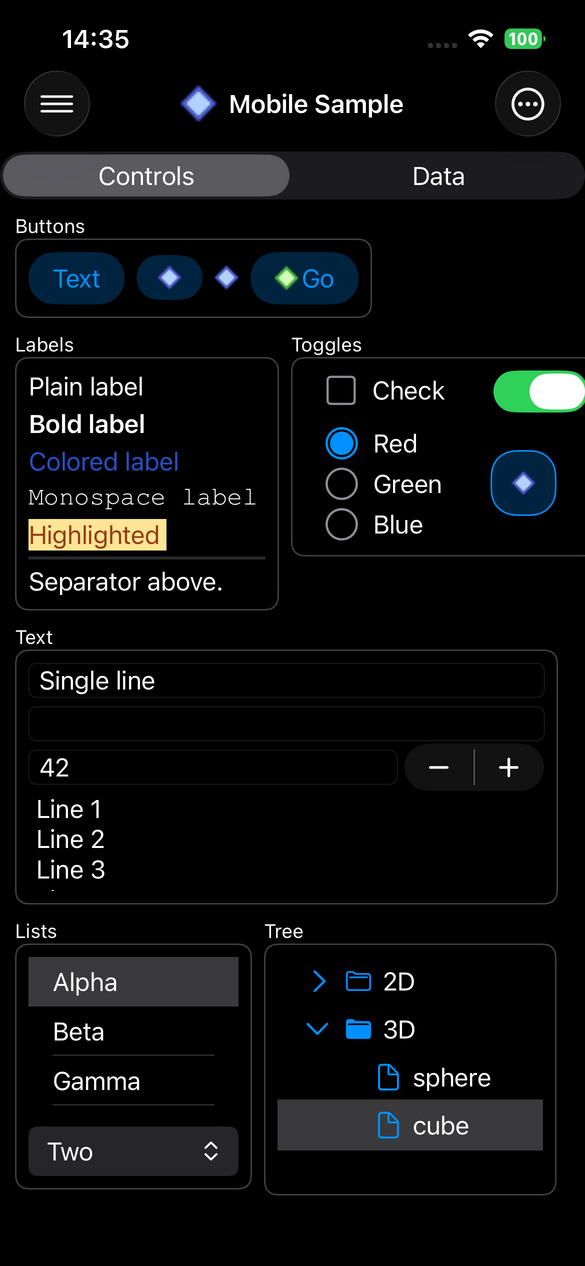
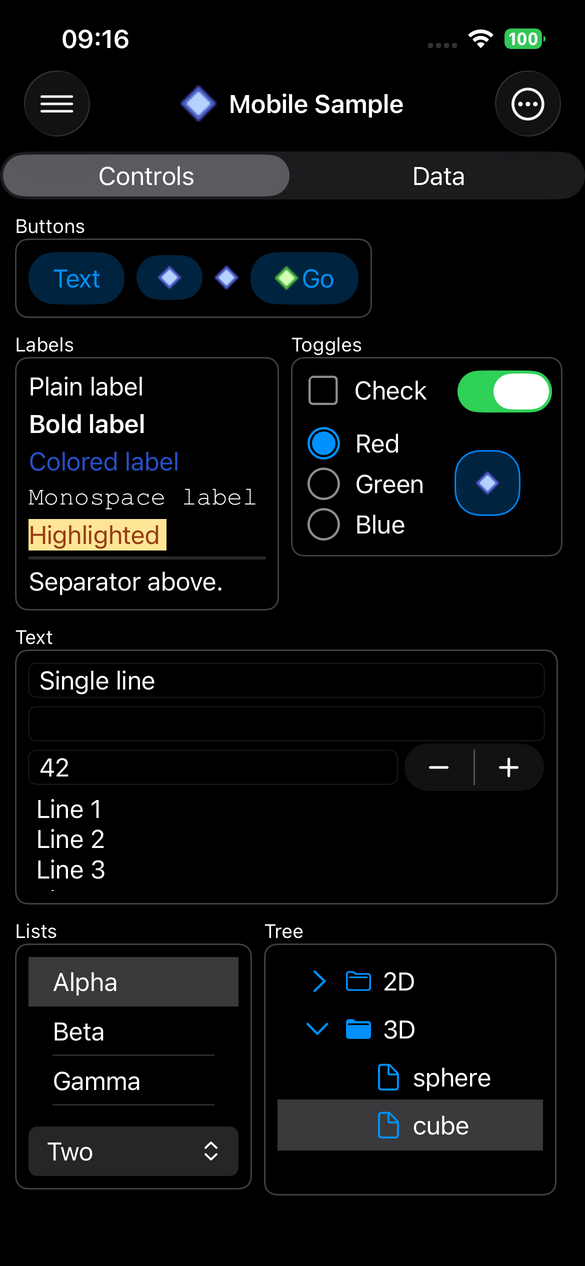
cocoatouch: Fix toggle padding

Changed region(s): [[0.7692, 0.2773, 1.0, 0.4313], [0.5231, 0.2773, 0.7385, 0.4313], [0.0923, 0.0, 0.1846, 0.0616]]

diff --git a/examples/table_interactive/table_interactive.go b/examples/table_interactive/table_interactive.go
@@ -83,6 +83,8 @@ func main() {
 	btnToggleSort := iup.Button("Disable Sorting").SetAttribute("PADDING", "5x0")
 	btnToggleReorder := iup.Button("Disable Reordering").SetAttribute("PADDING", "5x0")
 	btnToggleUserResize := iup.Button("Enable User Resize").SetAttribute("PADDING", "5x0")
+	btnToggleVeto := iup.Button("Veto Sorting").SetAttribute("PADDING", "5x0")
+	vetoSort := false
 
 	txtLog := iup.Text()
 	txtLog.SetAttributes("MULTILINE=YES, EXPAND=HORIZONTAL, READONLY=YES, VISIBLELINES=5")
@@ -98,6 +100,18 @@ func main() {
 	iup.SetHandle("btnToggleSort", btnToggleSort)
 	iup.SetHandle("btnToggleReorder", btnToggleReorder)
 	iup.SetHandle("btnToggleUserResize", btnToggleUserResize)
+	iup.SetHandle("btnToggleVeto", btnToggleVeto)
+
+	// SORT_CB returning IGNORE leaves the rows as they are
+	iup.SetCallback(btnToggleVeto, "ACTION", iup.ActionFunc(func(ih iup.Ihandle) int {
+		vetoSort = !vetoSort
+		if vetoSort {
+			ih.SetAttribute("TITLE", "Allow Sorting")
+		} else {
+			ih.SetAttribute("TITLE", "Veto Sorting")
+		}
+		return iup.DEFAULT
+	}))
 
 	// Toggle sorting
 	iup.SetCallback(btnToggleSort, "ACTION", iup.ActionFunc(func(ih iup.Ihandle) int {
@@ -168,6 +182,10 @@ func main() {
 	iup.SetCallback(table, "SORT_CB", iup.TableSortFunc(func(ih iup.Ihandle, col int) int {
 		log := iup.GetHandle("log")
 		columnTitle := ih.GetAttribute(fmt.Sprintf("TITLE%d", col))
+		if vetoSort {
+			log.SetAttribute("APPEND", fmt.Sprintf("SORT_CB: column %d (%s) vetoed\n", col, columnTitle))
+			return iup.IGNORE
+		}
 		log.SetAttribute("APPEND", fmt.Sprintf("Sorting by column %d (%s)\n", col, columnTitle))
 		return iup.DEFAULT
 	}))
@@ -188,6 +206,7 @@ func main() {
 				btnToggleSort,
 				btnToggleReorder,
 				btnToggleUserResize,
+				btnToggleVeto,
 			).SetAttributes("MARGIN=5x5, GAP=5"),
 			table,
 			iup.Label("Event Log:"),

diff --git a/iup/external/src/cocoatouch/iupcocoatouch_toggle.m b/iup/external/src/cocoatouch/iupcocoatouch_toggle.m
@@ -64,6 +64,7 @@ static UIButtonConfiguration* cocoaTouchToggleMakeBaseConfig(void)
 	UIButtonConfiguration* cfg = [UIButtonConfiguration plainButtonConfiguration];
 	cfg.imagePlacement = NSDirectionalRectEdgeLeading;
 	cfg.imagePadding = 8;
+	cfg.contentInsets = NSDirectionalEdgeInsetsZero;
 	return cfg;
 }
 
